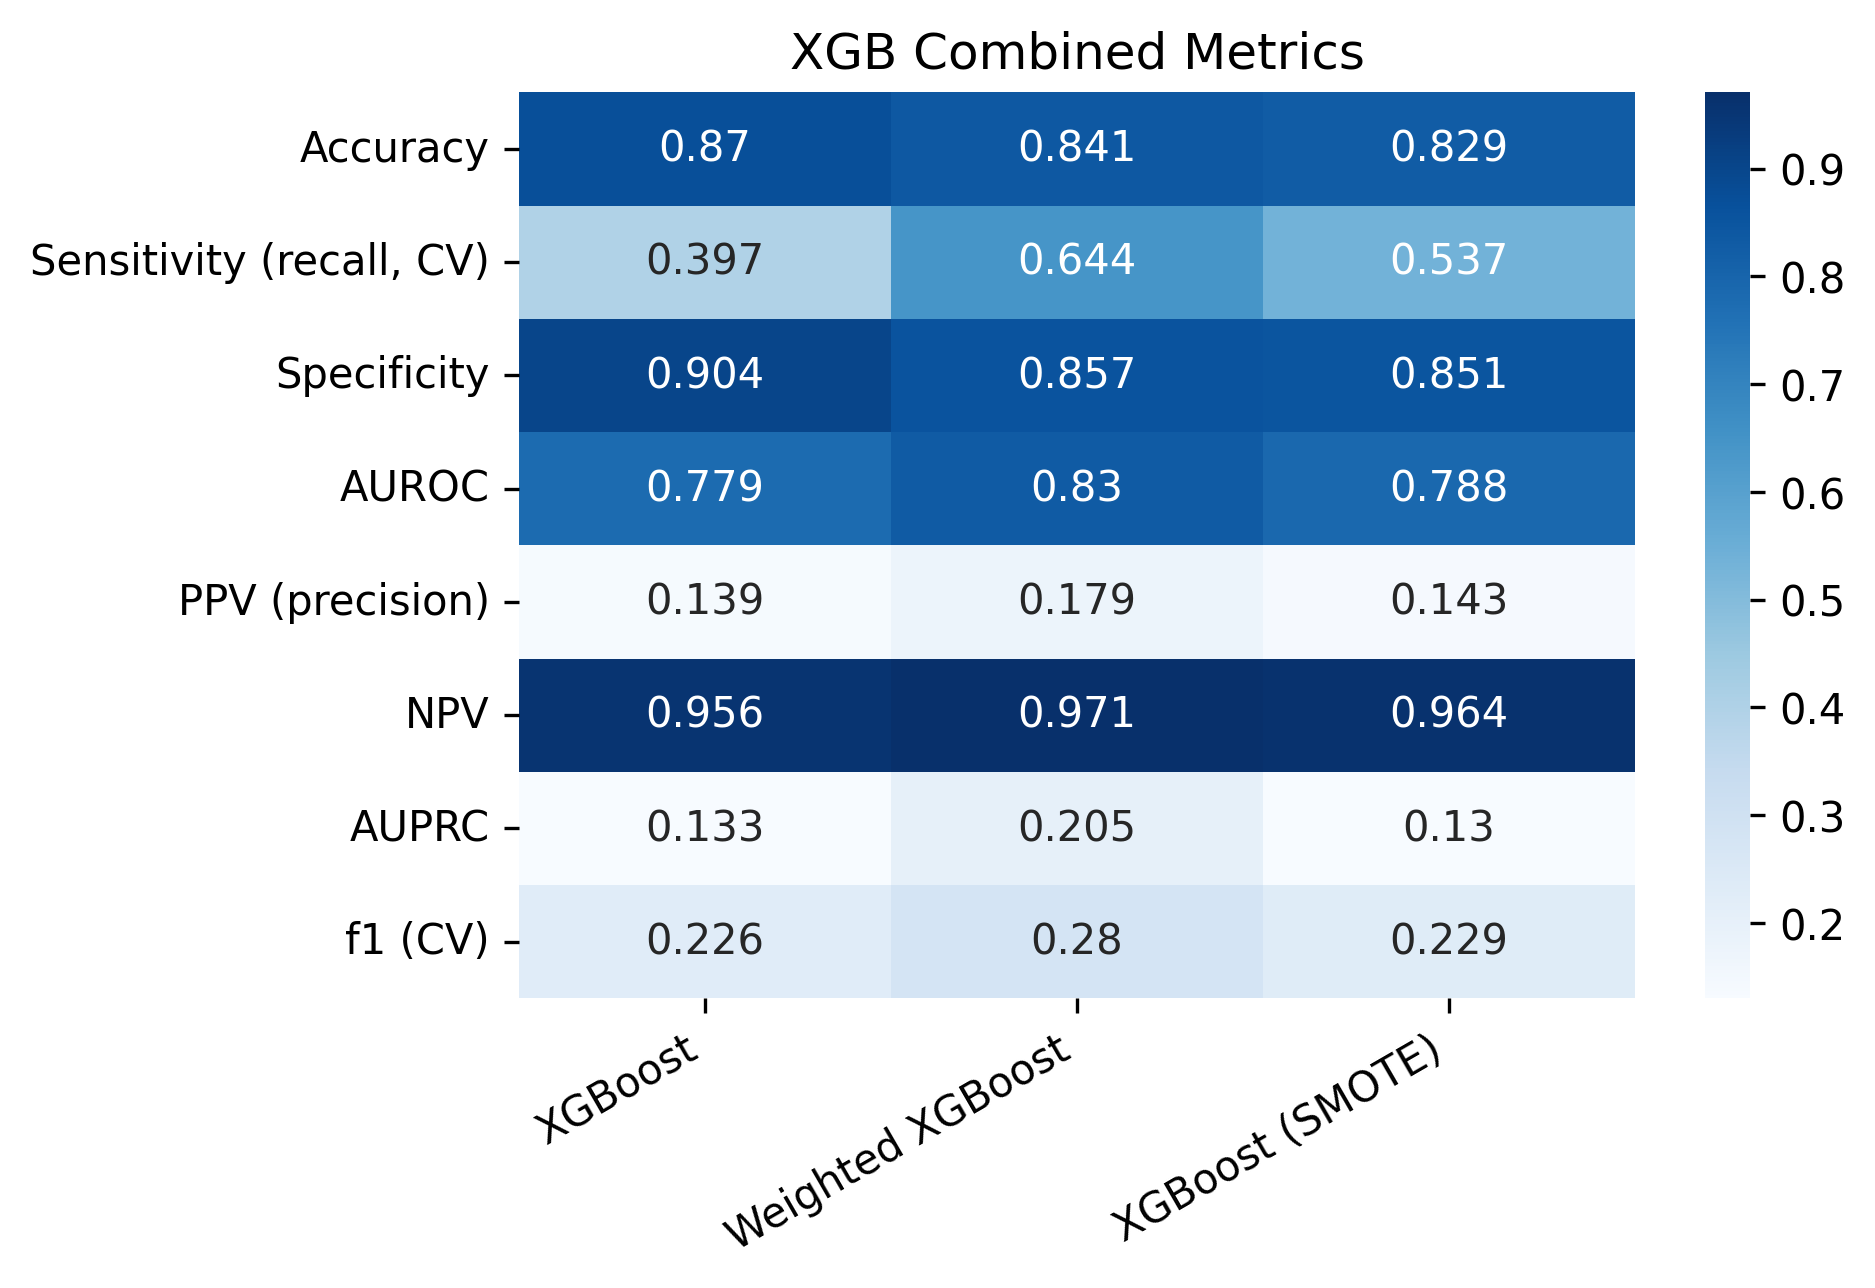
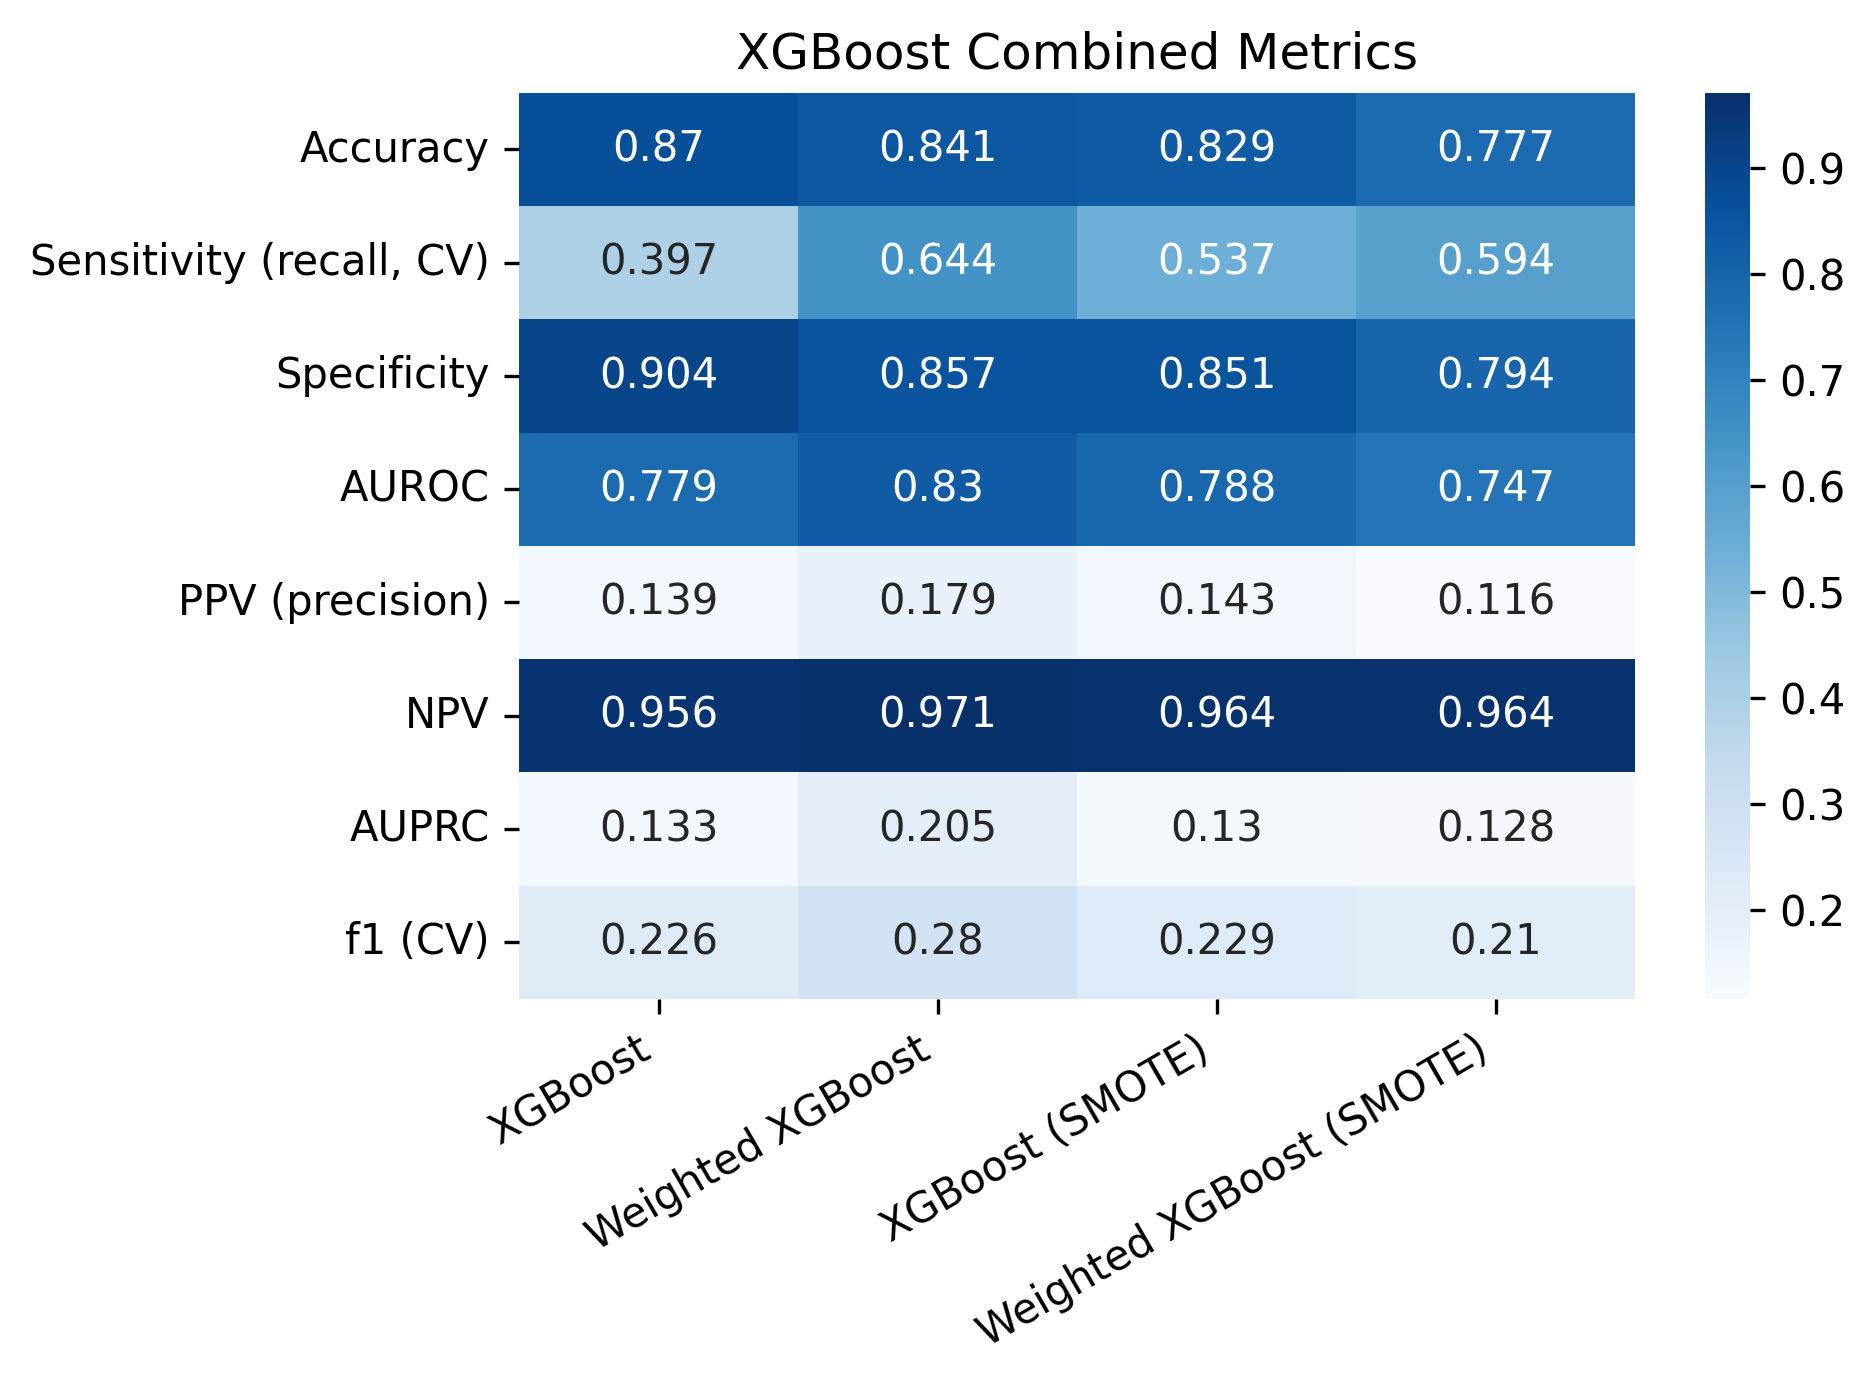
update graphs

diff --git a/stroke_modeling.py b/stroke_modeling.py
@@ -811,10 +811,42 @@ grid_search_obj_xgb_s, return_results_xgb_s = gridsearch_results(model_name=mode
                                                                  scoring=['f1', 'recall'], refit='f1', 
                                                                  n_jobs=10, cv=10, verbose=True)
 
+
+# =============================
+# Weighted XGBoost with hyperparameter tuning WITH SMOTE
+# =============================
+model_name = 'xgboost_w_s'
+model_display_name = 'Weighted XGBoost (SMOTE)'
+
+xgb_model_w_s = XGBClassifier(objective='binary:logistic', nthread=4, seed=15, use_label_encoder=False, eval_metric='logloss')
+xgb_pipeline_w_s  = create_pipeline(model_name, xgb_model_w_s, use_SMOTE=True)
+
+# One way to optimize XGBoost for an imbalanced dataset is to set the 'scale_pos_weight' to the inverse of the class distribution
+# https://machinelearningmastery.com/xgboost-for-imbalanced-classification/
+num_pos_target = sum(y_train == 1) # minority class
+num_neg_target = sum(y_train == 0) # majority class
+inv_class_dist = num_neg_target / num_pos_target
+
+# Will use gridsearch to test inv_class_dist plus nearby values
+weights = [inv_class_dist*0.5, inv_class_dist*0.75, inv_class_dist, inv_class_dist*1.25, inv_class_dist*1.5]
+
+xgb_w_s_parameters = {model_name + '__max_depth': range (2, 10, 1),
+                      model_name + '__n_estimators': range(60, 220, 40), 
+                      model_name + '__learning_rate': [0.1, 0.01, 0.05], 
+                      model_name + '__scale_pos_weight': weights}
+
+grid_search_obj_xgb_w_s_, return_results_xgb_w_s_ = gridsearch_results(model_name=model_name, 
+                                                             model_display_name=model_display_name, 
+                                                             estimator=xgb_pipeline_w_s, 
+                                                             param_grid=xgb_w_s_parameters, 
+                                                             scoring=['f1', 'recall'], refit='f1', 
+                                                             n_jobs=10, cv=10, verbose=True)
+
+
 # =============================
 # Combine XGBoost with SMOTE, XGBoost tuned and weighted with no SMOTE, XGBoost tuned with SMOTE
 # =============================
-combined_xgb = pd.concat([final_results.T['XGBoost'], return_results_xgb.T, return_results_xgb_s.T], axis=1, join='inner')
+combined_xgb = pd.concat([final_results.T['XGBoost'], return_results_xgb.T, return_results_xgb_s.T, return_results_xgb_w_s_.T], axis=1, join='inner')
 #final_results = final_results.apply(pd.to_numeric)
 sns.heatmap(data=combined_xgb, annot=True, cmap="Blues", fmt=".3")
 plt.xticks(rotation=30, horizontalalignment='right')  # Rotate y-tick labels to be horizontal# Rotate x-axis tick labels so they don't overlap
